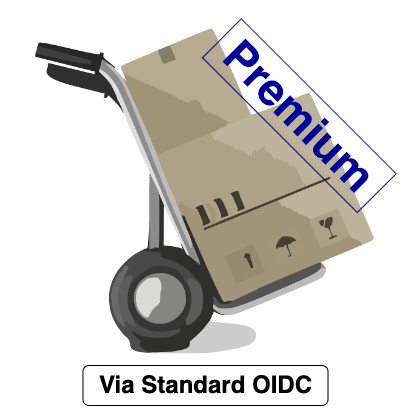
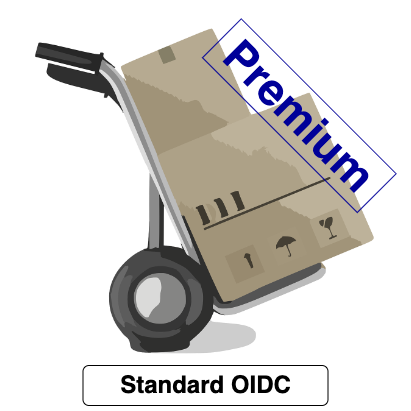
Update images

Changed region(s): [[0.2336, 0.9051, 0.7591, 0.9635]]

diff --git a/README.md b/README.md
@@ -106,6 +106,12 @@ Different accounts are created automatically with default passwords.
 | Keyrock No Cheaper Shop | cheaty.prime@mymail.com | cheaty | Prime user of the No Cheaper shop system |
 | Keyrock No Cheaper Shop | bob.standard@mymail.com | bob | Standard user of the No Cheaper shop system |
 
+Furthermore there are user policies created for the shop users in the Keyrock instances of the Happy Pets and 
+No Cheaper shop. These policies provide the following access rights:
+| Keyrock instance | Username               | Entity / Delivery order ID    | Permitted actions    |
+|------------------|------------------------|-------------------------------|----------------------|
+|                  |                        |                               |                      |
+
 Root CA, keys and certificates have been created and self-signed using openssl. Keys and certificates used for this demonstrator 
 can be found in the [certs folder](./certs). These should never be used in any kind of production enviroment or on a 
 contineously running environment.  
